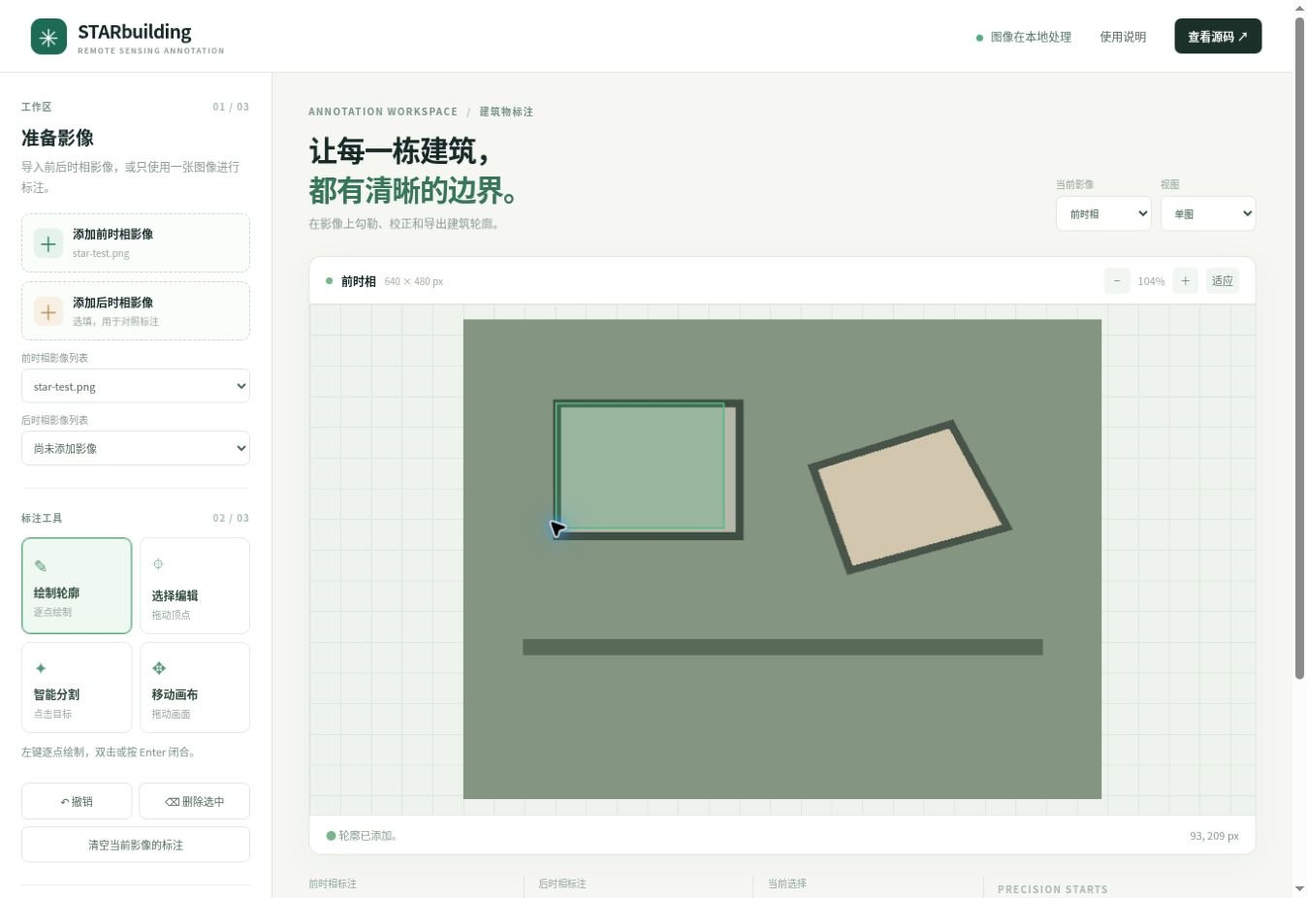
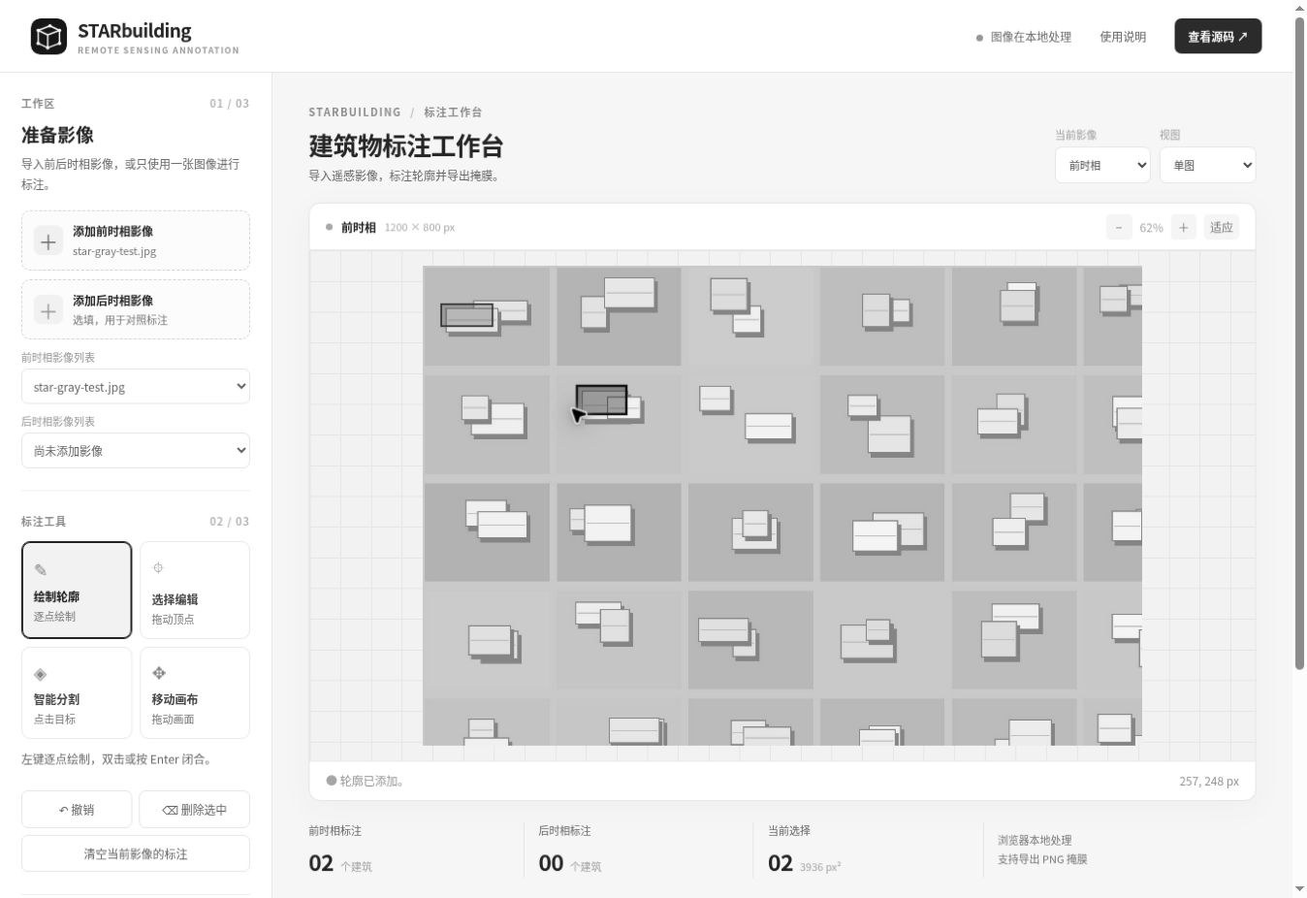
Refine monochrome workspace and documentation

diff --git a/docs/style.css b/docs/style.css
@@ -1,3 +1,5 @@
-:root{font-family:Inter,"Noto Sans SC","Microsoft YaHei",sans-serif;color:#172927;background:#f6f7f3;font-synthesis:none}*{box-sizing:border-box}body{margin:0}button,select{font:inherit}button{cursor:pointer}button:focus-visible,select:focus-visible,label:focus-within{outline:3px solid #87c8ad;outline-offset:2px}header{height:76px;background:#fff;border-bottom:1px solid #e2e9e4;display:flex;align-items:center;justify-content:space-between;padding:0 32px}.brand{display:flex;gap:11px;align-items:center;text-decoration:none;color:inherit}.brand-icon{width:38px;height:38px;display:grid;place-items:center;color:#fff;background:#1d6b53;border-radius:11px;font-size:26px}.brand strong{font-size:19px;letter-spacing:-.6px}.brand small{display:block;font-size:8px;letter-spacing:1.2px;color:#91a09a;font-weight:700;margin-top:2px}.header-end{display:flex;align-items:center;gap:24px;font-size:12px}.local-badge{color:#527369}.local-badge i{display:inline-block;width:7px;height:7px;border-radius:50%;background:#51ad7d;margin-right:6px}.text-btn{border:0;background:none;color:#4f625a}.github{color:#fff;text-decoration:none;background:#1c302a;border-radius:7px;padding:10px 14px;font-weight:600}main{display:grid;grid-template-columns:284px minmax(0,1fr);min-height:calc(100vh - 76px)}.sidebar{padding:27px 22px;border-right:1px solid #e2e9e4;background:#fff}.section-heading{display:flex;justify-content:space-between;text-transform:uppercase;letter-spacing:1px;font-size:10px;font-weight:800;color:#789189}.step{color:#aabbb4}.sidebar h2{font-size:19px;margin:11px 0 7px}.muted,.footnote{font-size:12px;color:#8b9b94;line-height:1.75}.muted{margin:0 0 17px}.upload{display:flex;align-items:center;gap:10px;border:1px dashed #c8d9cf;border-radius:9px;padding:12px;margin-bottom:9px;cursor:pointer;background:#fbfdfb}.upload:hover{border-color:#31906b;background:#f2faf5}.upload input,.import-project input{display:none}.upload-icon{width:31px;height:31px;border-radius:8px;background:#e6f3ec;color:#28835d;font-size:21px;display:grid;place-items:center}.upload-icon.warm{background:#f8f0e5;color:#b99058}.upload b{display:block;font-size:12px}.upload small{display:block;font-size:10px;color:#9aaba3;margin-top:4px;max-width:160px;text-overflow:ellipsis;overflow:hidden;white-space:nowrap}.divider{height:1px;background:#edf1ed;margin:23px 0}.tool-grid{display:grid;grid-template-columns:1fr 1fr;gap:8px;margin-top:13px}.tool{border:1px solid #e5ece7;background:#fff;border-radius:9px;text-align:left;padding:12px;color:#586d62}.tool span,.tool b,.tool small{display:block}.tool span{font-size:18px;color:#589779;margin-bottom:7px}.tool b{font-size:12px;color:#304a3b}.tool small{font-size:10px;color:#9baaa0;margin-top:4px}.tool.selected{border-color:#63af85;background:#f0f8f2;box-shadow:inset 0 0 0 1px #a3d2b6}.hint{min-height:30px;color:#769084;font-size:11px;line-height:1.5}.actions{display:flex;gap:7px}.actions button,.clear,.secondary,.import-project{border:1px solid #e0e9e1;background:#fff;border-radius:7px;color:#536b5b;padding:10px;font-size:11px}.actions button{flex:1}.clear{width:100%;margin-top:7px}.primary,.secondary{width:100%;display:flex;justify-content:space-between;padding:12px 14px;font-weight:700;margin-top:10px}.primary{background:#236d51;color:white;border:0;border-radius:7px}.primary:hover{background:#16583d}.import-project{display:block;text-align:center;margin-top:9px;cursor:pointer}.footnote{font-size:10px;margin-top:12px}.workspace{padding:32px 38px;min-width:0}.workspace-head{display:flex;justify-content:space-between;align-items:end;gap:20px;margin-bottom:26px}.eyebrow{font-size:10px;color:#799389;letter-spacing:1.35px;font-weight:800}.eyebrow span{padding:0 5px;color:#b4c3ba}.workspace h1{font-size:30px;line-height:1.35;letter-spacing:-1px;margin:12px 0 8px}.workspace h1 em{font-style:normal;color:#38765c}.workspace-head p{font-size:12px;color:#8d9e94;margin:0}.head-controls{display:flex;gap:9px}.head-controls label{font-size:10px;color:#93a39a}.head-controls select{display:block;margin-top:5px;min-width:100px;padding:9px 25px 9px 10px;border:1px solid #e1e9e1;border-radius:7px;background:white;color:#355342}.canvas-shell{background:white;border:1px solid #e0e8e0;border-radius:12px;overflow:hidden;box-shadow:0 8px 35px #3552400a}.canvas-toolbar,.canvas-footer{height:48px;display:flex;justify-content:space-between;align-items:center;padding:0 17px}.canvas-title{font-size:12px;display:flex;gap:9px;align-items:center}.canvas-title span:last-child{font-size:10px;color:#9daf9f}.pulse{height:7px;width:7px;background:#70ba8c;border-radius:50%}.canvas-buttons{display:flex;gap:8px;align-items:center;color:#9aaba1;font-size:11px}.canvas-buttons button{border:0;background:#f2f6f2;border-radius:5px;color:#647d6c;min-width:27px;height:27px}.panes{height:min(57vh,640px);min-height:350px;display:flex;background:#eff3ed;border-block:1px solid #e6ede5}.pane{position:relative;min-width:0;flex:1;overflow:hidden;background-color:#eef3ed;background-image:linear-gradient(#dfe9df 1px, transparent 1px),linear-gradient(90deg,#dfe9df 1px,transparent 1px);background-size:32px 32px}.pane+ .pane{border-left:1px solid #dce7dc}.panes.single .pane[data-side=after],.panes.overlay .pane[data-side=after]{display:none}.panes.single.after .pane[data-side=before]{display:none}.panes.single.after .pane[data-side=after]{display:block}.pane canvas{width:100%;height:100%;display:block;touch-action:none}.empty{position:absolute;inset:0;display:flex;flex-direction:column;align-items:center;justify-content:center;pointer-events:none;color:#769086;gap:9px}.empty[hidden]{display:none}.empty-mark{display:grid;place-items:center;width:54px;height:54px;border:1px solid #d2e3d4;background:#f7fbf7;color:#71a58a;border-radius:15px;font-size:27px;margin-bottom:4px}.empty strong{font-size:13px;color:#577363}.empty span{font-size:11px;color:#a1b2a4}.canvas-footer{font-size:11px;color:#849a8b;height:40px}.key{color:#79b68e}.bottom{display:grid;grid-template-columns:repeat(3,1fr) 1.2fr;gap:15px;margin-top:22px}.bottom>div{border-right:1px solid #dfe9df}.bottom>div:last-child{border:0}.metric-label{display:block;font-size:10px;color:#97a9a0;margin-bottom:8px}.bottom strong{font-size:23px;letter-spacing:-.6px;margin-right:7px}.bottom div>span:not(.metric-label){font-size:10px;color:#98aba0}.bottom-note{font-size:10px;font-weight:800;letter-spacing:1.4px;line-height:1.7;color:#a8bab0;align-self:center}.bottom-note span{font-size:17px!important;color:#7ba889!important}.disclaimer{font-size:10px;color:#a1b1a5;margin-top:28px}dialog{border:0;border-radius:14px;padding:24px;max-width:520px;color:#30493a;box-shadow:0 20px 100px #12281e50;line-height:1.8;font-size:13px}dialog::backdrop{background:#1c302a70}.dialog-top{display:flex;justify-content:space-between;align-items:center;font-size:18px}.dialog-top button{border:0;background:#eef4ee;border-radius:5px;padding:7px 10px}@media(max-width:850px){header{padding:0 16px}.header-end{gap:9px}.local-badge{display:none}main{display:flex;flex-direction:column}.sidebar{border-right:0;border-bottom:1px solid #e2e9e4}.workspace{padding:24px 16px}.workspace-head{align-items:start;flex-direction:column}.workspace h1{font-size:26px}.bottom{grid-template-columns:repeat(3,1fr)}.bottom-note{display:none}.panes{min-height:330px;height:50vh}.sidebar .tool-grid{grid-template-columns:repeat(4,1fr)}}@media(max-width:480px){.github{display:none}.sidebar .tool-grid{grid-template-columns:repeat(2,1fr)}.canvas-title span:last-child{display:none}.panes.side{flex-direction:column}.panes.side .pane+.pane{border-left:0;border-top:1px solid #dce7dc}}
+:root{font-family:Inter,"Noto Sans SC","Microsoft YaHei",sans-serif;color:#252525;background:#f6f6f6;font-synthesis:none}*{box-sizing:border-box}body{margin:0}button,select{font:inherit}button{cursor:pointer}button:focus-visible,select:focus-visible,label:focus-within{outline:3px solid #b8b8b8;outline-offset:2px}header{height:76px;background:#ffffff;border-bottom:1px solid #e7e7e7;display:flex;align-items:center;justify-content:space-between;padding:0 32px}.brand{display:flex;gap:11px;align-items:center;text-decoration:none;color:inherit}.brand-icon{width:38px;height:38px;display:grid;place-items:center;color:#ffffff;background:#595959;border-radius:11px;font-size:26px}.brand strong{font-size:19px;letter-spacing:-.6px}.brand small{display:block;font-size:9px;letter-spacing:1.2px;color:#9c9c9c;font-weight:700;margin-top:2px}.header-end{display:flex;align-items:center;gap:24px;font-size:12px}.local-badge{color:#6b6b6b}.local-badge i{display:inline-block;width:7px;height:7px;border-radius:50%;background:#969696;margin-right:6px}.text-btn{border:0;background:none;color:#5d5d5d}.github{color:#ffffff;text-decoration:none;background:#2b2b2b;border-radius:7px;padding:10px 14px;font-weight:600}main{display:grid;grid-template-columns:284px minmax(0,1fr);min-height:calc(100vh - 76px)}.sidebar{padding:27px 22px;border-right:1px solid #e7e7e7;background:#ffffff}.section-heading{display:flex;justify-content:space-between;text-transform:uppercase;letter-spacing:1px;font-size:11px;font-weight:800;color:#8b8b8b}.step{color:#b7b7b7}.sidebar h2{font-size:19px;margin:11px 0 7px}.muted,.footnote{font-size:12px;color:#979797;line-height:1.75}.muted{margin:0 0 17px}.upload{display:flex;align-items:center;gap:10px;border:1px dashed #d5d5d5;border-radius:9px;padding:12px;margin-bottom:9px;cursor:pointer;background:#fcfcfc}.upload:hover{border-color:#797979;background:#f8f8f8}.upload input,.import-project input{display:none}.upload-icon{width:31px;height:31px;border-radius:8px;background:#f0f0f0;color:#6d6d6d;font-size:21px;display:grid;place-items:center}.upload-icon.warm{background:#f1f1f1;color:#959595}.upload b{display:block;font-size:12px}.upload small{display:block;font-size:11px;color:#a7a7a7;margin-top:4px;max-width:160px;text-overflow:ellipsis;overflow:hidden;white-space:nowrap}.divider{height:1px;background:#f0f0f0;margin:23px 0}.tool-grid{display:grid;grid-template-columns:1fr 1fr;gap:8px;margin-top:13px}.tool{border:1px solid #eaeaea;background:#ffffff;border-radius:9px;text-align:left;padding:12px;color:#686868}.tool span,.tool b,.tool small{display:block}.tool span{font-size:18px;color:#878787;margin-bottom:7px}.tool b{font-size:12px;color:#434343}.tool small{font-size:11px;color:#a6a6a6;margin-top:4px}.tool.selected{border-color:#9c9c9c;background:#f6f6f6;box-shadow:inset 0 0 0 1px #c6c6c6}.hint{min-height:30px;color:#8a8a8a;font-size:12px;line-height:1.5}.actions{display:flex;gap:7px}.actions button,.clear,.secondary,.import-project{border:1px solid #e7e7e7;background:#ffffff;border-radius:7px;color:#656565;padding:10px;font-size:12px}.actions button{flex:1}.clear{width:100%;margin-top:7px}.primary,.secondary{width:100%;display:flex;justify-content:space-between;padding:12px 14px;font-weight:700;margin-top:10px}.primary{background:#5b5b5b;color:white;border:0;border-radius:7px}.primary:hover{background:#484848}.import-project{display:block;text-align:center;margin-top:9px;cursor:pointer}.footnote{font-size:11px;margin-top:12px}.workspace{padding:32px 38px;min-width:0}.workspace-head{display:flex;justify-content:space-between;align-items:end;gap:20px;margin-bottom:26px}.eyebrow{font-size:11px;color:#8d8d8d;letter-spacing:1.35px;font-weight:800}.eyebrow span{padding:0 5px;color:#bfbfbf}.workspace h1{font-size:30px;line-height:1.35;letter-spacing:-1px;margin:12px 0 8px}.workspace h1 em{font-style:normal;color:#676767}.workspace-head p{font-size:12px;color:#9a9a9a;margin:0}.head-controls{display:flex;gap:9px}.head-controls label{font-size:11px;color:#9f9f9f}.head-controls select{display:block;margin-top:5px;min-width:100px;padding:9px 25px 9px 10px;border:1px solid #e7e7e7;border-radius:7px;background:white;color:#4b4b4b}.canvas-shell{background:white;border:1px solid #e6e6e6;border-radius:12px;overflow:hidden;box-shadow:0 8px 35px #4b4b4b0a}.canvas-toolbar,.canvas-footer{height:48px;display:flex;justify-content:space-between;align-items:center;padding:0 17px}.canvas-title{font-size:12px;display:flex;gap:9px;align-items:center}.canvas-title span:last-child{font-size:11px;color:#aaaaaa}.pulse{height:7px;width:7px;background:#a7a7a7;border-radius:50%}.canvas-buttons{display:flex;gap:8px;align-items:center;color:#a7a7a7;font-size:12px}.canvas-buttons button{border:0;background:#f5f5f5;border-radius:5px;color:#767676;min-width:27px;height:27px}.panes{height:min(57vh,640px);min-height:350px;display:flex;background:#f2f2f2;border-block:1px solid #ebebeb}.pane{position:relative;min-width:0;flex:1;overflow:hidden;background-color:#f2f2f2;background-image:linear-gradient(#e6e6e6 1px, transparent 1px),linear-gradient(90deg,#e6e6e6 1px,transparent 1px);background-size:32px 32px}.pane+ .pane{border-left:1px solid #e4e4e4}.panes.single .pane[data-side=after],.panes.overlay .pane[data-side=after]{display:none}.panes.single.after .pane[data-side=before]{display:none}.panes.single.after .pane[data-side=after]{display:block}.pane canvas{width:100%;height:100%;display:block;touch-action:none}.empty{position:absolute;inset:0;display:flex;flex-direction:column;align-items:center;justify-content:center;pointer-events:none;color:#8a8a8a;gap:9px}.empty[hidden]{display:none}.empty-mark{display:grid;place-items:center;width:54px;height:54px;border:1px solid #dedede;background:#fafafa;color:#989898;border-radius:15px;font-size:27px;margin-bottom:4px}.empty strong{font-size:13px;color:#6c6c6c}.empty span{font-size:12px;color:#adadad}.canvas-footer{font-size:12px;color:#949494;height:40px}.key{color:#a6a6a6}.bottom{display:grid;grid-template-columns:repeat(3,1fr) 1.2fr;gap:15px;margin-top:22px}.bottom>div{border-right:1px solid #e6e6e6}.bottom>div:last-child{border:0}.metric-label{display:block;font-size:11px;color:#a5a5a5;margin-bottom:8px}.bottom strong{font-size:23px;letter-spacing:-.6px;margin-right:7px}.bottom div>span:not(.metric-label){font-size:11px;color:#a6a6a6}.bottom-note{font-size:11px;font-weight:800;letter-spacing:1.4px;line-height:1.7;color:#b5b5b5;align-self:center}.bottom-note span{font-size:17px!important;color:#9c9c9c!important}.disclaimer{font-size:11px;color:#adadad;margin-top:28px}dialog{border:0;border-radius:14px;padding:24px;max-width:520px;color:#434343;box-shadow:0 20px 100px #23232350;line-height:1.8;font-size:13px}dialog::backdrop{background:#2b2b2b70}.dialog-top{display:flex;justify-content:space-between;align-items:center;font-size:18px}.dialog-top button{border:0;background:#f2f2f2;border-radius:5px;padding:7px 10px}@media(max-width:850px){header{padding:0 16px}.header-end{gap:9px}.local-badge{display:none}main{display:flex;flex-direction:column}.sidebar{border-right:0;border-bottom:1px solid #e7e7e7}.workspace{padding:24px 16px}.workspace-head{align-items:start;flex-direction:column}.workspace h1{font-size:26px}.bottom{grid-template-columns:repeat(3,1fr)}.bottom-note{display:none}.panes{min-height:330px;height:50vh}.sidebar .tool-grid{grid-template-columns:repeat(4,1fr)}}@media(max-width:480px){.github{display:none}.sidebar .tool-grid{grid-template-columns:repeat(2,1fr)}.canvas-title span:last-child{display:none}.panes.side{flex-direction:column}.panes.side .pane+.pane{border-left:0;border-top:1px solid #e4e4e4}}
 
-.image-picker{display:block;margin-top:10px;color:#8b9b94;font-size:10px}.image-picker select{display:block;width:100%;border:1px solid #e0e9e1;border-radius:7px;background:#fff;color:#536b5b;font-size:11px;padding:8px;margin-top:4px}
+.image-picker{display:block;margin-top:10px;color:#979797;font-size:11px}.image-picker select{display:block;width:100%;border:1px solid #e7e7e7;border-radius:7px;background:#ffffff;color:#656565;font-size:12px;padding:8px;margin-top:4px}
+
+.brand-icon{background:transparent;border-radius:10px;overflow:hidden;display:block}.brand-icon img{width:100%;height:100%;display:block}.tool.selected{border-color:#222;background:#f2f2f2;box-shadow:inset 0 0 0 1px #222}.tool.selected b{color:#111}.workspace h1{font-size:26px;margin:9px 0 6px;letter-spacing:-.5px}.sidebar{padding-top:23px}.workspace-head{margin-bottom:20px}.empty-mark svg{width:26px;height:26px}.brand-icon img{object-fit:cover}.hint,.footnote,.muted,.disclaimer{color:#676767}.upload small,.tool small{color:#777}.metric-label{color:#666}.workspace-head p{color:#666}.bottom-note{line-height:1.8;font-size:11px;letter-spacing:0;font-weight:500;color:#777}

diff --git a/docs/index.html b/docs/index.html
@@ -1,6 +1,6 @@
 <!doctype html>
-<html lang="zh-CN"><head><meta charset="utf-8"><meta name="viewport" content="width=device-width,initial-scale=1"><meta name="color-scheme" content="light"><title>STARbuilding · 遥感建筑标注</title><link rel="stylesheet" href="./style.css"></head>
-<body><header><a class="brand" href="#"><span class="brand-icon">✳</span><span><strong>STARbuilding</strong><small>REMOTE SENSING ANNOTATION</small></span></a><div class="header-end"><span class="local-badge"><i></i> 图像在本地处理</span><button id="help" class="text-btn">使用说明</button><a class="github" href="https://github.com/cha290196-hue/STARbuilding">查看源码 ↗</a></div></header>
-<main><aside class="sidebar"><div class="section-heading"><span>工作区</span><span class="step">01 / 03</span></div><h2>准备影像</h2><p class="muted">导入前后时相影像，或只使用一张图像进行标注。</p><label class="upload"><input id="file-before" type="file" multiple accept="image/png,image/jpeg,image/webp,image/bmp"><span class="upload-icon">＋</span><span><b>添加前时相影像</b><small id="before-name">PNG / JPG / WEBP / BMP</small></span></label><label class="upload"><input id="file-after" type="file" multiple accept="image/png,image/jpeg,image/webp,image/bmp"><span class="upload-icon warm">＋</span><span><b>添加后时相影像</b><small id="after-name">选填，用于对照标注</small></span></label><label class="image-picker">前时相影像列表<select id="images-before" aria-label="前时相影像列表"><option value="">尚未添加影像</option></select></label><label class="image-picker">后时相影像列表<select id="images-after" aria-label="后时相影像列表"><option value="">尚未添加影像</option></select></label><div class="divider"></div><div class="section-heading"><span>标注工具</span><span class="step">02 / 03</span></div><div class="tool-grid" id="tools"><button class="tool selected" data-mode="polygon"><span>✎</span><b>绘制轮廓</b><small>逐点绘制</small></button><button class="tool" data-mode="edit"><span>⌖</span><b>选择编辑</b><small>拖动顶点</small></button><button class="tool" data-mode="ai"><span>✦</span><b>智能分割</b><small>点击目标</small></button><button class="tool" data-mode="pan"><span>✥</span><b>移动画布</b><small>拖动画面</small></button></div><p id="tool-hint" class="hint">左键逐点绘制，双击或按 Enter 闭合。</p><div class="actions"><button id="undo">↶ 撤销</button><button id="remove">⌫ 删除选中</button></div><button id="clear" class="clear">清空当前影像的标注</button><div class="divider"></div><div class="section-heading"><span>成果输出</span><span class="step">03 / 03</span></div><button id="export-mask" class="primary">导出二值掩膜 <span>↓</span></button><button id="export-project" class="secondary">保存标注工程 <span>↓</span></button><label class="import-project">恢复标注工程<input id="project-file" type="file" accept="application/json,.json"></label><p class="footnote">掩膜为与当前影像同尺寸的黑白 PNG。工程仅保存当前选中的前后影像标注。影像列表保存在当前页面，关闭前请逐组保存。</p></aside>
-<section class="workspace"><div class="workspace-head"><div><div class="eyebrow">ANNOTATION WORKSPACE <span> / </span> 建筑物标注</div><h1>让每一栋建筑，<br><em>都有清晰的边界。</em></h1><p>在影像上勾勒、校正和导出建筑轮廓。</p></div><div class="head-controls"><label>当前影像<select id="active"><option value="before">前时相</option><option value="after">后时相</option></select></label><label>视图<select id="layout"><option value="single">单图</option><option value="side">左右对照</option><option value="overlay">叠加对照</option></select></label></div></div><div class="canvas-shell"><div class="canvas-toolbar"><div class="canvas-title"><span class="pulse"></span><strong id="view-title">前时相</strong><span id="dimensions">等待导入影像</span></div><div class="canvas-buttons"><button id="zoom-out" title="缩小">−</button><span id="zoom-label">100%</span><button id="zoom-in" title="放大">＋</button><button id="fit" title="适应画布">适应</button></div></div><div id="panes" class="panes single"><div class="pane" data-side="before"><canvas id="canvas-before"></canvas><div class="empty" id="empty-before"><div class="empty-mark">✳</div><strong>从一张影像开始</strong><span>选择左侧的「添加前时相影像」</span></div></div><div class="pane" data-side="after"><canvas id="canvas-after"></canvas><div class="empty" id="empty-after"><div class="empty-mark">＋</div><strong>添加后时相影像</strong><span>导入另一张图像进行对照</span></div></div></div><div class="canvas-footer"><div><span class="key">●</span> <span id="status" role="status">准备就绪</span></div><div id="pointer">—</div></div></div><div class="bottom"><div><span class="metric-label">前时相标注</span><strong id="count-before">00</strong><span>个建筑</span></div><div><span class="metric-label">后时相标注</span><strong id="count-after">00</strong><span>个建筑</span></div><div><span class="metric-label">当前选择</span><strong id="selection">—</strong><span id="area">未选择建筑</span></div><div class="bottom-note">PRECISION STARTS<br>WITH A POINT <span>↗</span></div></div><p class="disclaimer">智能分割结果需要人工检查与修正；面积单位为像素，不代表实际地面面积。</p></section></main>
+<html lang="zh-CN"><head><meta charset="utf-8"><meta name="viewport" content="width=device-width,initial-scale=1"><meta name="color-scheme" content="light"><title>STARbuilding · 遥感建筑标注</title><link rel="icon" type="image/svg+xml" href="./icon.svg"><link rel="stylesheet" href="./style.css"></head>
+<body><header><a class="brand" href="#"><span class="brand-icon"><img src="./icon.svg" alt=""></span><span><strong>STARbuilding</strong><small>REMOTE SENSING ANNOTATION</small></span></a><div class="header-end"><span class="local-badge"><i></i> 图像在本地处理</span><button id="help" class="text-btn">使用说明</button><a class="github" href="https://github.com/cha290196-hue/STARbuilding">查看源码 ↗</a></div></header>
+<main><aside class="sidebar"><div class="section-heading"><span>工作区</span><span class="step">01 / 03</span></div><h2>准备影像</h2><p class="muted">导入前后时相影像，或只使用一张图像进行标注。</p><label class="upload"><input id="file-before" type="file" multiple accept="image/png,image/jpeg,image/webp,image/bmp"><span class="upload-icon">＋</span><span><b>添加前时相影像</b><small id="before-name">PNG / JPG / WEBP / BMP</small></span></label><label class="upload"><input id="file-after" type="file" multiple accept="image/png,image/jpeg,image/webp,image/bmp"><span class="upload-icon warm">＋</span><span><b>添加后时相影像</b><small id="after-name">选填，用于对照标注</small></span></label><label class="image-picker">前时相影像列表<select id="images-before" aria-label="前时相影像列表"><option value="">尚未添加影像</option></select></label><label class="image-picker">后时相影像列表<select id="images-after" aria-label="后时相影像列表"><option value="">尚未添加影像</option></select></label><div class="divider"></div><div class="section-heading"><span>标注工具</span><span class="step">02 / 03</span></div><div class="tool-grid" id="tools"><button class="tool selected" data-mode="polygon"><span>✎</span><b>绘制轮廓</b><small>逐点绘制</small></button><button class="tool" data-mode="edit"><span>⌖</span><b>选择编辑</b><small>拖动顶点</small></button><button class="tool" data-mode="ai"><span>◈</span><b>智能分割</b><small>点击目标</small></button><button class="tool" data-mode="pan"><span>✥</span><b>移动画布</b><small>拖动画面</small></button></div><p id="tool-hint" class="hint">左键逐点绘制，双击或按 Enter 闭合。</p><div class="actions"><button id="undo">↶ 撤销</button><button id="remove">⌫ 删除选中</button></div><button id="clear" class="clear">清空当前影像的标注</button><div class="divider"></div><div class="section-heading"><span>成果输出</span><span class="step">03 / 03</span></div><button id="export-mask" class="primary">导出二值掩膜 <span>↓</span></button><button id="export-project" class="secondary">保存标注工程 <span>↓</span></button><label class="import-project">恢复标注工程<input id="project-file" type="file" accept="application/json,.json"></label><p class="footnote">掩膜为与当前影像同尺寸的黑白 PNG。工程仅保存当前选中的前后影像标注。影像列表保存在当前页面，关闭前请逐组保存。</p></aside>
+<section class="workspace"><div class="workspace-head"><div><div class="eyebrow">STARBUILDING <span> / </span> 标注工作台</div><h1>建筑物标注工作台</h1><p>导入遥感影像，标注轮廓并导出掩膜。</p></div><div class="head-controls"><label>当前影像<select id="active"><option value="before">前时相</option><option value="after">后时相</option></select></label><label>视图<select id="layout"><option value="single">单图</option><option value="side">左右对照</option><option value="overlay">叠加对照</option></select></label></div></div><div class="canvas-shell"><div class="canvas-toolbar"><div class="canvas-title"><span class="pulse"></span><strong id="view-title">前时相</strong><span id="dimensions">等待导入影像</span></div><div class="canvas-buttons"><button id="zoom-out" title="缩小">−</button><span id="zoom-label">100%</span><button id="zoom-in" title="放大">＋</button><button id="fit" title="适应画布">适应</button></div></div><div id="panes" class="panes single"><div class="pane" data-side="before"><canvas id="canvas-before"></canvas><div class="empty" id="empty-before"><div class="empty-mark"><svg viewBox="0 0 24 24" fill="none" stroke="currentColor" stroke-width="1.3" aria-hidden="true"><rect x="3.5" y="4.5" width="17" height="15" rx="1.5"/><path d="m5 16 4.5-4.5 3.2 3.1 2.8-2.6 3.5 4"/><circle cx="15.8" cy="8.5" r="1"/></svg></div><strong>从一张影像开始</strong><span>选择左侧的「添加前时相影像」</span></div></div><div class="pane" data-side="after"><canvas id="canvas-after"></canvas><div class="empty" id="empty-after"><div class="empty-mark">＋</div><strong>添加后时相影像</strong><span>导入另一张图像进行对照</span></div></div></div><div class="canvas-footer"><div><span class="key">●</span> <span id="status" role="status">准备就绪</span></div><div id="pointer">—</div></div></div><div class="bottom"><div><span class="metric-label">前时相标注</span><strong id="count-before">00</strong><span>个建筑</span></div><div><span class="metric-label">后时相标注</span><strong id="count-after">00</strong><span>个建筑</span></div><div><span class="metric-label">当前选择</span><strong id="selection">—</strong><span id="area">未选择建筑</span></div><div class="bottom-note">浏览器本地处理<br>支持导出 PNG 掩膜</div></div><p class="disclaimer">智能分割结果需要人工检查与修正；面积单位为像素，不代表实际地面面积。</p></section></main>
 <dialog id="help-dialog"><div class="dialog-top"><b>使用说明</b><button id="close-help">✕</button></div><ol><li>导入前时相影像；需要对比时再导入后时相。</li><li>选择「绘制轮廓」逐点标注，双击或按 Enter 完成。选择「选择编辑」后可选中轮廓并拖动顶点。</li><li>选择「智能分割」并点击目标，首次使用需要联网下载模型。结果须人工核对；每次点击创建一个轮廓。</li><li>滚轮缩放，移动画布工具用于平移；左右对照分别编辑两张影像，叠加模式要求两张影像尺寸一致并已配准。</li><li>导出二值掩膜或保存工程。工程仅包含当前选中的前后时相标注，不包含图像；恢复时须重新选择同尺寸原图。</li></ol><p>快捷键：Enter 完成绘制、Esc 取消当前绘制、Ctrl/Cmd + Z 撤销、Delete 删除选中。</p></dialog><script type="module" src="./app.js"></script></body></html>

diff --git a/docs/app.js b/docs/app.js
@@ -14,8 +14,8 @@ function resize(){for(const side of sides){const c=canvas[side],r=c.getBoundingC
 function fit(side){const d=data[side],r=canvas[side].getBoundingClientRect();if(!d.image||!r.width)return;d.zoom=Math.min((r.width-32)/d.width,(r.height-32)/d.height);d.tx=(r.width-d.width*d.zoom)/2;d.ty=(r.height-d.height*d.zoom)/2;}
 function draw(side){const c=canvas[side],d=data[side],ctx=c.getContext('2d'),r=c.getBoundingClientRect();if(!r.width)return;ctx.clearRect(0,0,r.width,r.height);let base=d;if(layout==='overlay'&&side==='before'){base=data.before.image?data.before:data.after;}if(!base.image)return;
 ctx.save();ctx.translate(d.tx,d.ty);ctx.scale(d.zoom,d.zoom);ctx.drawImage(base.image,0,0);if(layout==='overlay'&&side==='before'&&data.before.image&&data.after.image&&data.before.width===data.after.width&&data.before.height===data.after.height){ctx.globalAlpha=.5;ctx.drawImage(data.after.image,0,0);ctx.globalAlpha=1;}
-const shapeSide=layout==='overlay'&&side==='before'?active:side;const shapeData=data[shapeSide];for(const [i,s] of shapeData.shapes.entries()){if(s.points.length<3)continue;ctx.beginPath();s.points.forEach(([x,y],j)=>j?ctx.lineTo(x,y):ctx.moveTo(x,y));ctx.closePath();let sel=selected===i&&active===shapeSide;ctx.fillStyle=sel?'rgba(40,174,114,.38)':'rgba(68,179,123,.25)';ctx.strokeStyle=sel?'#0f7d4f':'#56bd83';ctx.lineWidth=(sel?2.5:1.7)/d.zoom;ctx.fill();ctx.stroke();if(sel&&mode==='edit'){for(const [x,y] of s.points){ctx.beginPath();ctx.arc(x,y,4/d.zoom,0,Math.PI*2);ctx.fillStyle='white';ctx.fill();ctx.strokeStyle='#14794f';ctx.lineWidth=1.4/d.zoom;ctx.stroke();}}}
-if(active===shapeSide&&draft.length){ctx.beginPath();draft.forEach(([x,y],i)=>i?ctx.lineTo(x,y):ctx.moveTo(x,y));ctx.strokeStyle='#ffcb72';ctx.lineWidth=2/d.zoom;ctx.stroke();for(const [x,y] of draft){ctx.beginPath();ctx.arc(x,y,3/d.zoom,0,Math.PI*2);ctx.fillStyle='#fff';ctx.fill();}}
+const shapeSide=layout==='overlay'&&side==='before'?active:side;const shapeData=data[shapeSide];for(const [i,s] of shapeData.shapes.entries()){if(s.points.length<3)continue;ctx.beginPath();s.points.forEach(([x,y],j)=>j?ctx.lineTo(x,y):ctx.moveTo(x,y));ctx.closePath();let sel=selected===i&&active===shapeSide;ctx.fillStyle=sel?'rgba(25,25,25,.38)':'rgba(40,40,40,.24)';ctx.strokeStyle=sel?'#111111':'#333333';ctx.lineWidth=(sel?2.5:1.7)/d.zoom;ctx.fill();ctx.stroke();if(sel&&mode==='edit'){for(const [x,y] of s.points){ctx.beginPath();ctx.arc(x,y,4/d.zoom,0,Math.PI*2);ctx.fillStyle='white';ctx.fill();ctx.strokeStyle='#111111';ctx.lineWidth=1.4/d.zoom;ctx.stroke();}}}
+if(active===shapeSide&&draft.length){ctx.beginPath();draft.forEach(([x,y],i)=>i?ctx.lineTo(x,y):ctx.moveTo(x,y));ctx.strokeStyle='#222222';ctx.lineWidth=2/d.zoom;ctx.stroke();for(const [x,y] of draft){ctx.beginPath();ctx.arc(x,y,3/d.zoom,0,Math.PI*2);ctx.fillStyle='#fff';ctx.fill();}}
 ctx.restore();}
 function render(){sides.forEach(draw);}
 function refresh(){for(const side of sides){$('empty-'+side).hidden=!!data[side].image;$('count-'+side).textContent=String(data[side].shapes.length).padStart(2,'0');}const d=current();$('panes').className=`panes ${layout} ${active==='after'?'after':''}`;$('view-title').textContent=active==='before'?'前时相':'后时相';$('dimensions').textContent=d.image?`${d.width} × ${d.height} px`:'等待导入影像';$('zoom-label').textContent=Math.round((layout==='overlay'?data.before.zoom:d.zoom)*100)+'%';const s=d.shapes[selected];$('selection').textContent=s?String(selected+1).padStart(2,'0'):'—';$('area').textContent=s?`${Math.round(area(s.points))} px²`:'未选择建筑';resize();}

diff --git a/README.md b/README.md
@@ -1,52 +1,74 @@
-<p align="center"><img src="assets/banner.svg" alt="STARbuilding 遥感影像建筑物标注" width="100%"></p>
+<p align="center">
+  <img src="assets/banner.svg" alt="STARbuilding" width="100%">
+</p>
 
-<h1 align="center">STARbuilding</h1>
-<p align="center">遥感影像建筑物标注工作台</p>
-<p align="center"><b>双时相对照</b>　·　<b>交互式分割</b>　·　<b>轮廓修订</b>　·　<b>掩膜导出</b></p>
+<p align="center"><strong>遥感影像建筑物标注工具</strong></p>
+<p align="center">双时相影像　/　交互式标注　/　二值掩膜导出</p>
+<p align="center"><a href="https://cha290196-hue.github.io/STARbuilding/"><strong>打开在线工作台 ↗</strong></a></p>
 
-从建筑轮廓绘制到二值掩膜导出，围绕前后时相影像构建轻量的标注工作流。
+<br>
 
-<p align="center"><a href="https://cha290196-hue.github.io/STARbuilding/"><b>打开在线工作台 →</b></a></p>
+## 工作台
 
-![标注工作台，图中为人工构造的测试影像](assets/workspace.jpg)
+![STARbuilding 标注工作台](assets/workspace.jpg)
 
 <sub>界面截图使用人工构造的测试影像。</sub>
 
-> 当前网页重构仍在验证中。原始桌面程序保留在 `run.py`；请勿将网页版本视为全部功能已经迁移完成的正式版本。
+STARbuilding 是一个运行在浏览器中的遥感影像标注工具。导入影像后，可以绘制或辅助生成建筑物轮廓，调整边界，并导出同尺寸的二值掩膜。
 
-## 当前网页功能
+| 影像管理 | 建筑物标注 | 导出与保存 |
+| :--- | :--- | :--- |
+| 前、后时相影像分别导入 | 逐点绘制多边形 | 黑白 PNG 二值掩膜 |
+| 多张影像切换 | 点击辅助分割 | JSON 标注工程 |
+| 单图、左右和叠加视图 | 顶点编辑、撤销与删除 | 保持源影像像素尺寸 |
 
-- 分别批量导入前、后时相影像并切换，支持单图、左右对照和叠加查看。
-- 逐点绘制建筑物轮廓，选择并拖动顶点，撤销或删除标注。
-- 使用浏览器端 SlimSAM 模型，以点击方式辅助生成轮廓。
-- 按当前影像原始尺寸导出仅含 0 和 255 的黑白 PNG 掩膜。
-- 将当前选中的前、后时相轮廓保存为 JSON 工程；其他影像需逐组保存。恢复时需要重新选择同尺寸的原始影像。
+## 开始使用
 
-智能分割是交互辅助工具，结果必须逐个检查。模型可能分割出背景或较大的区域，其评分也不能直接解释为可靠的准确率。
+1. 打开 [在线工作台](https://cha290196-hue.github.io/STARbuilding/)，导入前时相影像；需要对照时再导入后时相影像。
+2. 选择 **绘制轮廓**，沿建筑边界依次点击，按 `Enter` 或双击结束；也可以选择 **智能分割**，点击目标生成轮廓。
+3. 选择 **选择编辑**，点击已有轮廓并拖动顶点修正；使用滚轮缩放，切换到 **移动画布** 可拖动画面。
+4. 选择当前时相，导出 **PNG 二值掩膜**，或保存 **JSON 标注工程**。
 
-## 本地运行网页
+首次使用智能分割时需要联网下载模型和运行组件。推理在浏览器中执行，影像不由本程序上传。模型结果需要人工检查，手工标注无需加载模型。
 
-在仓库根目录启动本地静态服务器：
+## 文件与数据
+
+- **影像格式：**PNG、JPEG、WebP 和 BMP。可同时选择多张影像，并在列表中切换。
+- **掩膜格式：**与当前影像尺寸一致的 PNG，背景为 `0`，标注区域为 `255`。
+- **工程保存：**JSON 保存当前选中的前、后时相轮廓，不包含影像文件；恢复时请先重新导入对应的同尺寸影像。列表中的其他影像需要分别保存。
+- **叠加对照：**要求两张影像尺寸一致并已事先配准；程序不执行自动配准。
+- **面积：**以像素平方为单位，不代表地面实际面积。
+
+## 快捷键
+
+| 按键 | 操作 |
+| :--- | :--- |
+| `Enter` | 完成当前轮廓 |
+| `Esc` | 取消当前绘制 |
+| `Ctrl` / `⌘` + `Z` | 撤销 |
+| `Delete` / `Backspace` | 删除选中轮廓 |
+| 鼠标滚轮 | 缩放画布 |
+
+## 本地运行
+
+需要 Python 3 提供静态文件服务：
 
 ```bash
 python -m http.server 8000 --directory docs
 ```
 
-在浏览器打开 `http://localhost:8000/`。首次点击智能分割时，浏览器需要连接 CDN 和模型托管服务，下载运行库与模型文件；实际推理在浏览器内进行，导入的影像不会被本程序上传。网络不可用时仍可使用手工标注。
+在浏览器访问 `http://localhost:8000/`。网页入口为 `docs/index.html`。智能分割使用 [Transformers.js](https://github.com/huggingface/transformers.js) 和 [SlimSAM ONNX 模型](https://huggingface.co/Xenova/slimsam-77-uniform)，相关组件及模型的使用遵循各自许可。
 
-## 操作
+## 项目结构
 
-1. 导入前时相影像，按需导入后时相。
-2. 选择绘制轮廓，在建筑边界依次点击，按 Enter 完成；或选择智能分割并点击目标。
-3. 通过「选择编辑」拖动轮廓顶点，检查并修正分割结果。
-4. 切换当前时相导出对应的黑白 PNG 掩膜，或保存 JSON 工程。
-
-叠加查看要求两幅图像尺寸一致且已经完成配准；程序不会自动配准。面积以像素计，并非实际地面面积。
-
-## 模型与依赖
-
-网页使用 [Transformers.js](https://github.com/huggingface/transformers.js) 和 [SlimSAM ONNX 权重](https://huggingface.co/Xenova/slimsam-77-uniform)，权重的量化编码器与解码器合计约 14 MB。模型并非专门针对所有遥感建筑数据训练；尚未在本项目的标注集上与原桌面版模型进行准确率和速度对比。模型和运行库的使用应遵循各自许可。
-
-## 原桌面版本
-
-`run.py` 是原始 PyQt/SAM 实现，尚未删除。它依赖 Python、PyQt5、OpenCV、PyTorch、Segment Anything 和单独的 SAM 权重。网页重构目前尚未覆盖原程序的独立自由标注窗口等功能，后续仍需完善和验证。
+```text
+STARbuilding/
+├── docs/                 在线工作台
+│   ├── index.html        页面结构
+│   ├── style.css         界面样式
+│   ├── app.js            标注与导出逻辑
+│   └── icon.svg          项目标识
+├── assets/               README 图片
+├── run.py                原始源码
+└── README.md
+```
